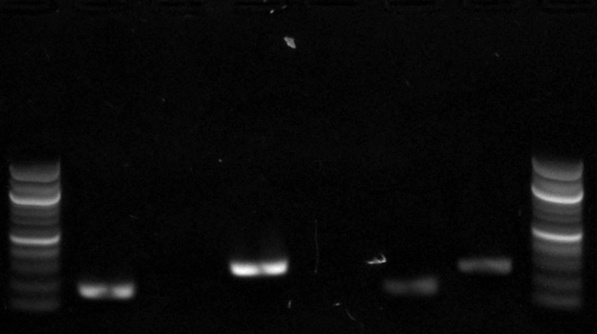
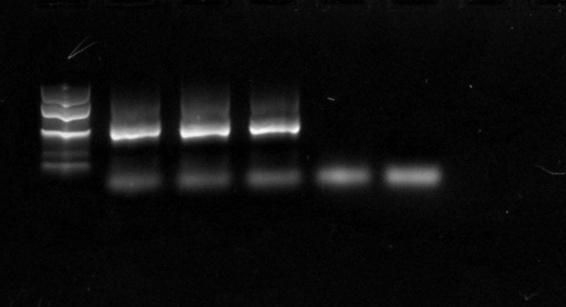
striktnejsi urcovani okraju integralu - unfinished

diff --git a/src/gelelectro/analysis/concentration/utils.py b/src/gelelectro/analysis/concentration/utils.py
@@ -98,38 +98,100 @@ def get_peak_edges(signals, all_peak_centers, pixel_line, abs_intens_threshold, 
             
             if len(starts) == 0:    # first bend
 
-                loc_intens_threshold_end = min(signal[pixel] for pixel in range(peak_centers[i], peak_centers[i+1])) + 1
+                start_to_peak_signal = [signal[pixel] for pixel in range(0, peak_centers[i])]
+                secondary_peak_centers_start, secondary_peak_properties_start = sig.find_peaks(start_to_peak_signal, height = 5)
+                peak_to_peak_signal_end = [signal[pixel] for pixel in range(peak_centers[i], peak_centers[i+1])]
+                secondary_peak_centers_end, secondary_peak_properties_end = sig.find_peaks(peak_to_peak_signal_end, height = 5)
 
-                if signal[end_pixel] <= loc_intens_threshold_end and not end_found:
+                if len(peak_to_peak_signal_end) >= 1 or len(start_to_peak_signal) >= 1:
+                    minimum_dist_end = abs(np.argmin(peak_to_peak_signal_end))
+                    minimum_dist_start = abs(peak_center - np.argmin(start_to_peak_signal))
+                    peak_to_loc_min_dist = min(minimum_dist_end, minimum_dist_start)
+                else:
+                    peak_to_loc_min_dist = 99999999999
+                if len(secondary_peak_centers_start) >= 1:
+                    peak_to_sec_peak_dist_start = max(secondary_peak_centers_start) - peak_center
+                else:
+                    peak_to_sec_peak_dist_start = 99999999999999
+                if len(secondary_peak_centers_end) >= 1:
+                    peak_to_sec_peak_dist_end = min(secondary_peak_centers_end)
+                else:
+                    peak_to_sec_peak_dist_end = 999999999999999
+
+                min_abs_ndx = np.argmin([abs(peak_to_loc_min_dist), abs(peak_to_sec_peak_dist_end), abs(peak_to_sec_peak_dist_start)])
+                threshold_value_distance = [peak_to_loc_min_dist, peak_to_sec_peak_dist_end, peak_to_sec_peak_dist_start][min_abs_ndx]
+                threshold = signal[peak_center + threshold_value_distance]
+
+                if signal[end_pixel] <= threshold and not end_found:
                     ends[peak_center] = end_pixel
                     end_found = True
-                if signal[start_pixel] <= loc_intens_threshold_end and not start_found: # mby abs thrshld
+                if signal[start_pixel] <= threshold and not start_found: # mby abs thrshld
                     starts[peak_center] = start_pixel
                     start_found = True
             
             elif len(starts) < (len(peak_centers) - 1):    # middle bands
 
+                peak_to_peak_signal_start = [signal[pixel] for pixel in range(peak_centers[i-1], peak_centers[i])]
+                secondary_peak_centers_start, secondary_peak_properties_start = sig.find_peaks(peak_to_peak_signal_start, height = 5)
+                peak_to_peak_signal_end = [signal[pixel] for pixel in range(peak_centers[i-1], peak_centers[i])]
+                secondary_peak_centers_end, secondary_peak_properties_end = sig.find_peaks(peak_to_peak_signal_end, height = 5)
 
-                loc_intens_threshold_start = min(signal[pixel] for pixel in range(peak_centers[i-1], peak_centers[i])) + 1
-                loc_intens_threshold_end = min(signal[pixel] for pixel in range(peak_centers[i], peak_centers[i+1])) + 1
-                max_threshold = max(loc_intens_threshold_start, loc_intens_threshold_end)
+                if len(peak_to_peak_signal_end) >= 1 or len(peak_to_peak_signal_start) >= 1:
+                    minimum_dist_end = abs(np.argmin(peak_to_peak_signal_end))
+                    minimum_dist_start = abs(len(peak_to_peak_signal_start) - np.argmin(peak_to_peak_signal_start))
+                    peak_to_loc_min_dist = min(minimum_dist_end, minimum_dist_start)
+                else:
+                    peak_to_loc_min_dist = 99999999999
+                if len(secondary_peak_centers_start) >= 1:
+                    peak_to_sec_peak_dist_start = max(secondary_peak_centers_start) - peak_center
+                else:
+                    peak_to_sec_peak_dist_start = 99999999999999
+                if len(secondary_peak_centers_end) >= 1:
+                    peak_to_sec_peak_dist_end = min(secondary_peak_centers_end)
+                else:
+                    peak_to_sec_peak_dist_end = 999999999999999
 
-                if signal[end_pixel] <= max_threshold and not end_found:    # mby change to loc thrshld
+                min_abs_ndx = np.argmin([abs(peak_to_loc_min_dist), abs(peak_to_sec_peak_dist_end), abs(peak_to_sec_peak_dist_start)])
+                threshold_value_distance = [peak_to_loc_min_dist, peak_to_sec_peak_dist_end, peak_to_sec_peak_dist_start][min_abs_ndx]
+                threshold = signal[peak_center + threshold_value_distance]
+
+                if signal[end_pixel] <= threshold and not end_found:
                     ends[peak_center] = end_pixel
                     end_found = True
-                if signal[start_pixel] <= max_threshold and not start_found:    # mby change to loc thrshld
+                if signal[start_pixel] <= threshold and not start_found: # mby abs thrshld
                     starts[peak_center] = start_pixel
                     start_found = True
-                    print("HERE")
 
             else:   # last band
 
-                loc_intens_threshold_start = min(signal[pixel] for pixel in range(peak_centers[i-1], peak_centers[i])) + 1
+                peak_to_peak_signal_start = [signal[pixel] for pixel in range(peak_centers[i-1], peak_centers[i])]
+                secondary_peak_centers_start, secondary_peak_properties_start = sig.find_peaks(peak_to_peak_signal_start, height = 5)
+                peak_to_end_signal = [signal[pixel] for pixel in range(peak_centers[i], len(signal))]
+                secondary_peak_centers_end, secondary_peak_properties_end = sig.find_peaks(peak_to_end_signal, height = 5)
+                
+                if len(peak_to_end_signal) >= 1 or len(peak_to_peak_signal_start) >= 1:
+                    minimum_dist_end = abs(np.argmin(peak_to_peak_signal_end))
+                    minimum_dist_start = abs(len(peak_to_peak_signal_start) - np.argmin(peak_to_peak_signal_start))
+                    peak_to_loc_min_dist = min(minimum_dist_end, minimum_dist_start)
+                else:
+                    peak_to_loc_min_dist = 99999999999
+                if len(secondary_peak_centers_start) >= 1:
+                    peak_to_sec_peak_dist_start = max(secondary_peak_centers_start) - peak_center
+                else:
+                    peak_to_sec_peak_dist_start = 99999999999999
+                if len(secondary_peak_centers_end) >= 1:
+                    peak_to_sec_peak_dist_end = min(secondary_peak_centers_end)
+                else:
+                    peak_to_sec_peak_dist_end = 999999999999999
 
-                if signal[end_pixel] <= loc_intens_threshold_start and not end_found:   # mby change to abs thrshld
+                min_abs_ndx = np.argmin([abs(peak_to_loc_min_dist), abs(peak_to_sec_peak_dist_end), abs(peak_to_sec_peak_dist_start)])
+                threshold_value_distance = [peak_to_loc_min_dist, peak_to_sec_peak_dist_end, peak_to_sec_peak_dist_start][min_abs_ndx]
+                threshold = signal[peak_center + threshold_value_distance]
+
+                if signal[end_pixel] <= threshold and not end_found:
                     ends[peak_center] = end_pixel
                     end_found = True
-                if signal[start_pixel] <=  loc_intens_threshold_start and not start_found:
+                if signal[start_pixel] <= threshold and not start_found: # mby abs thrshld
                     starts[peak_center] = start_pixel
                     start_found = True
     return starts, ends
@@ -178,7 +240,7 @@ def mk_weight_fnc(ladder_specifs, all_peak_centers, signals, weights):
 
     intensities = get_intensities(all_peak_centers, signals, int(ladder_specifs["center"]), top_peak_distances)
     
-    values = [intensities[top_peak_distances[0]], intensities[top_peak_distances[1]], intensities[top_peak_distances[2]]]
+    values = np.log([intensities[top_peak_distances[0]], intensities[top_peak_distances[1]], intensities[top_peak_distances[2]]])
 
     plt.scatter(values, weights)
     plt.show()
